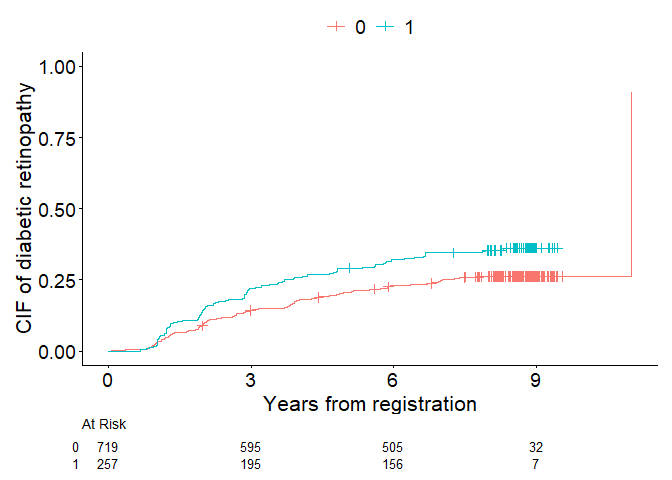
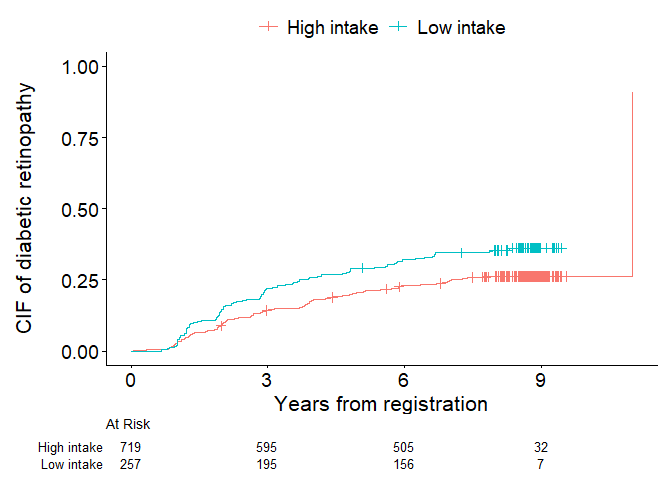
vignette updated

diff --git a/README.md b/README.md
@@ -280,7 +280,8 @@ patterns over follow-up.
 cifcurve(Event(t,epsilon) ~ fruitq1, data=diabetes.complications, 
 outcome.type='COMPETING-RISK', error='delta', ggsurvfit.type='risk', 
 addConfidenceInterval=FALSE, addCensorMark=TRUE, addCompetingRiskMark=FALSE, 
-label.y='CIF of diabetic retinopathy', label.x='Years from registration')
+label.y='CIF of diabetic retinopathy', label.x='Years from registration', 
+label.strata=c('High intake','Low intake'))
 ```
 
 <img src="man/figures/README-example1-2-1.png" width="100%" />
@@ -288,11 +289,12 @@ label.y='CIF of diabetic retinopathy', label.x='Years from registration')
     #> Call: cifcurve(formula = Event(t, epsilon) ~ fruitq1, data = diabetes.complications, 
     #>     outcome.type = "COMPETING-RISK", error = "delta", ggsurvfit.type = "risk", 
     #>     addConfidenceInterval = FALSE, addCensorMark = TRUE, addCompetingRiskMark = FALSE, 
-    #>     label.x = "Years from registration", label.y = "CIF of diabetic retinopathy")
+    #>     label.x = "Years from registration", label.y = "CIF of diabetic retinopathy", 
+    #>     label.strata = c("High intake", "Low intake"))
     #> 
-    #>   records   n events median LCL UCL
-    #> 0     720 719    189     11  NA  NA
-    #> 1     258 257     92     NA  NA  NA
+    #>             records   n events median LCL UCL
+    #> High intake     720 719    189     11  NA  NA
+    #> Low intake      258 257     92     NA  NA  NA
 
 In the final figure, competing risk marks are added
 (addCompetingRiskMark = TRUE) to indicate individuals who experienced
@@ -304,7 +306,8 @@ primary cause and those attributable to competing causes.
 cifcurve(Event(t,epsilon) ~ fruitq1, data=diabetes.complications, 
 outcome.type='COMPETING-RISK', error='delta', ggsurvfit.type='risk', 
 addConfidenceInterval=FALSE, addCensorMark=FALSE, addCompetingRiskMark=TRUE, 
-label.y='CIF of diabetic retinopathy', label.x='Years from registration')
+label.y='CIF of diabetic retinopathy', label.x='Years from registration', 
+label.strata=c('High intake','Low intake'))
 ```
 
 <img src="man/figures/README-example1-3-1.png" width="100%" />
@@ -312,11 +315,12 @@ label.y='CIF of diabetic retinopathy', label.x='Years from registration')
     #> Call: cifcurve(formula = Event(t, epsilon) ~ fruitq1, data = diabetes.complications, 
     #>     outcome.type = "COMPETING-RISK", error = "delta", ggsurvfit.type = "risk", 
     #>     addConfidenceInterval = FALSE, addCensorMark = FALSE, addCompetingRiskMark = TRUE, 
-    #>     label.x = "Years from registration", label.y = "CIF of diabetic retinopathy")
+    #>     label.x = "Years from registration", label.y = "CIF of diabetic retinopathy", 
+    #>     label.strata = c("High intake", "Low intake"))
     #> 
-    #>   records   n events median LCL UCL
-    #> 0     720 719    189     11  NA  NA
-    #> 1     258 257     92     NA  NA  NA
+    #>             records   n events median LCL UCL
+    #> High intake     720 719    189     11  NA  NA
+    #> Low intake      258 257     92     NA  NA  NA
 
 An estimate of the unadjusted risk ratio for the risk of diabetic
 retinopathy at 8 years is obtained using `polyreg()` with
@@ -461,7 +465,7 @@ diabetes.complications$d <- (diabetes.complications$epsilon>0)
 cifcurve(Event(t,d) ~ fruitq1, data=diabetes.complications, 
 outcome.type='SURVIVAL', addConfidenceInterval=TRUE, addCensorMark=FALSE, 
 addCompetingRiskMark=FALSE, label.y='Survival probability', 
-label.x='Years from registration')
+label.x='Years from registration', label.strata=c('High intake','Low intake'))
 ```
 
 <img src="man/figures/README-example3-1.png" width="100%" />
@@ -469,11 +473,12 @@ label.x='Years from registration')
     #> Call: cifcurve(formula = Event(t, d) ~ fruitq1, data = diabetes.complications, 
     #>     outcome.type = "SURVIVAL", addConfidenceInterval = TRUE, 
     #>     addCensorMark = FALSE, addCompetingRiskMark = FALSE, label.x = "Years from registration", 
-    #>     label.y = "Survival probability")
+    #>     label.y = "Survival probability", label.strata = c("High intake", 
+    #>         "Low intake"))
     #> 
-    #>     n events median LCL UCL
-    #> 0 720    248     11  NA  NA
-    #> 1 258    114     NA 8.3  NA
+    #>               n events median LCL UCL
+    #> High intake 720    248     11  NA  NA
+    #> Low intake  258    114     NA 8.3  NA
 
 The code below specifies the Richardson model on the risk of diabetic
 retinopathy or macrovascular complications at 8 years
